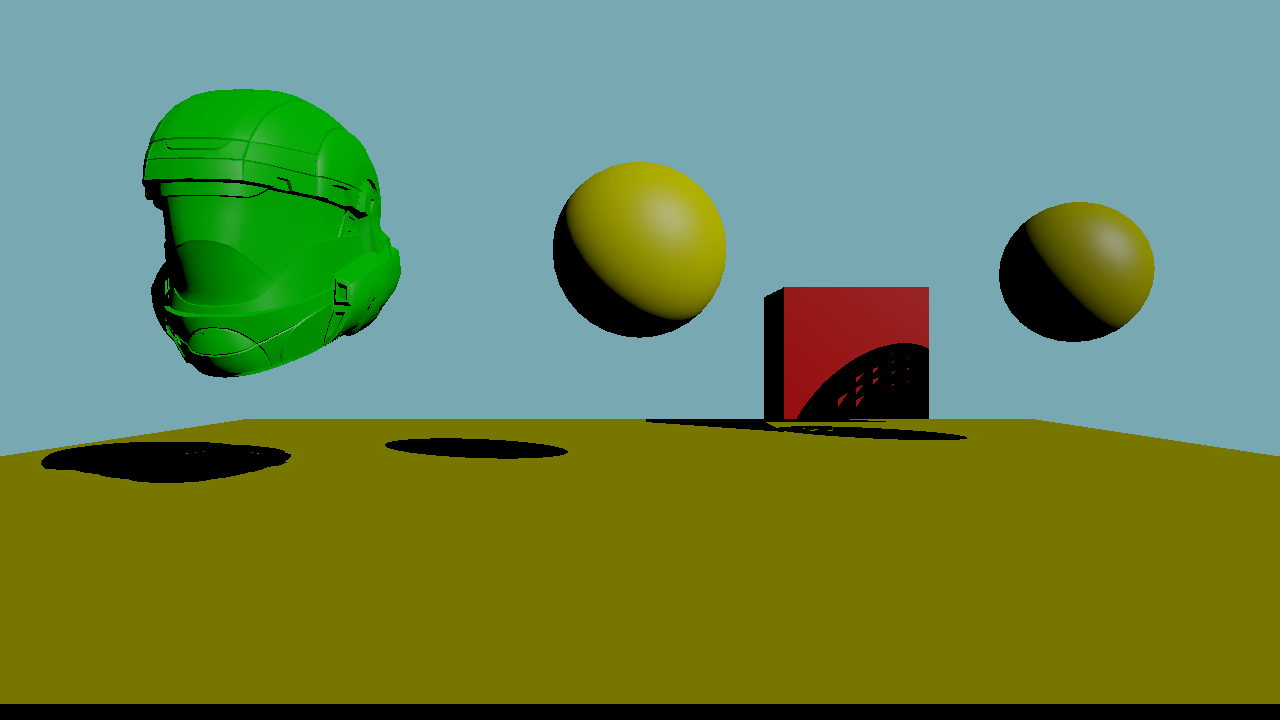
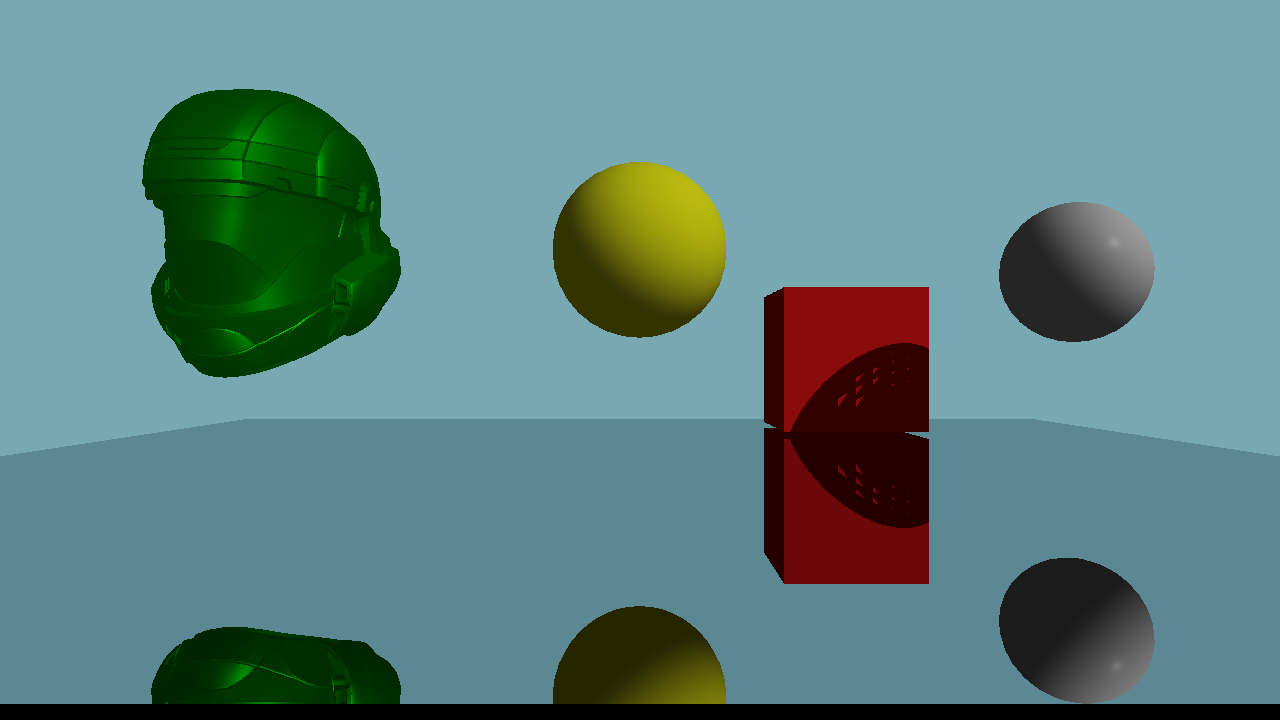
Added Cook-torrance brdf

diff --git a/CPU_RayTracing/AT_CPU_RayTracing/Camera.cpp b/CPU_RayTracing/AT_CPU_RayTracing/Camera.cpp
@@ -62,9 +62,6 @@ void Camera::Render(std::vector<Pixel>& buffer, BVH::Builder& bvh, std::vector<s
 				Pixel pixel;
 
 				// Convert pixel from raster space to camera space
-				//float Px = (2.0f * (tile_x + (aaX + Maths::Random::randomFloat()) / antiAliasingSamples) / m_size.getX() - 1.0f) * m_aspectRatio * m_scale;	// * tan(fov / 2.0f * Maths::special::pi / 180.0f) * aspect_ratio * scale;
-				//float Py = (1.0f - (tile_y + (aaX + Maths::Random::randomFloat()) / antiAliasingSamples) / m_size.getY() * 2.0f) * m_scale;	// * tan(fov / 2.0f * Maths::special::pi / 180.0f));
-
 				float Px = (2.0f * (tile_x + 0.5f) / m_size.getX() - 1.0f) * m_aspectRatio * m_cameraScale;
 				float Py = (1.0f - 2.0f * (tile_y + 0.5f) / m_size.getY()) * m_cameraScale;
 
@@ -111,13 +108,16 @@ Colour Camera::castRay(Raycast::Ray& ray, BVH::Builder& bvh, std::vector<std::un
 
 	if (bvh.hit(ray))
 	{
+		// Rays hit point
 		Vector3 hitpoint = ray.getOrigin() + ray.getDirection() * ray.getHitData().tnear;
 		
-		Colour albedo	= ray.getHitData().material.albedo;
-		float roughness	= ray.getHitData().material.roughness;
-		float metallic	= ray.getHitData().material.metallic;
-		Vector3 normal  = normalize(ray.getHitData().material.normal);
-		Vector3 viewDir = normalize(ray.getDirection());
+		// Material properties from the hit point
+		Colour albedo		= ray.getHitData().material.albedo;
+		float roughness		= ray.getHitData().material.roughness;
+		float metallic		= ray.getHitData().material.metallic;
+		float specIntensity = ray.getHitData().material.specular_intensity;
+		Vector3 normal		= ray.getHitData().material.normal;
+		Vector3 viewDir		= normalize(ray.getDirection());
 
 		// Rendering of multiple materials is based off Whitted Light-Transport Algorithm 
 		switch (ray.getHitData().material.type)
@@ -155,7 +155,6 @@ Colour Camera::castRay(Raycast::Ray& ray, BVH::Builder& bvh, std::vector<std::un
 				reflectionRay.setOrigin(reflectionOrigin);
 				reflectionRay.setDirection(reflectionDir);
 
-
 				Vector3 refractiveDir = normalize(refract(ray.getDirection(), normal, 1.52f));
 				Vector3 refractiveOrigin = (dot(refractiveDir, normal) < 0.0f) ? hitpoint - normal * 0.1f : hitpoint + normal * 0.1f;
 				
@@ -169,7 +168,6 @@ Colour Camera::castRay(Raycast::Ray& ray, BVH::Builder& bvh, std::vector<std::un
 				Colour refractColour = castRay(refractiveRay, bvh, sceneLights, depth + 1);
 				Colour reflectColour = castRay(reflectionRay, bvh, sceneLights, depth + 1);
 				hitColour = reflectColour * kr + refractColour * (1.0f - kr);
-				//hitColour = refractColour * (1.0f - kr);
 			}
 			break;
 
@@ -178,6 +176,11 @@ Colour Camera::castRay(Raycast::Ray& ray, BVH::Builder& bvh, std::vector<std::un
 
 			case Material::Types::Dielectic:
 			{
+				Colour f0 = Colour(0.04f, 0.04f, 0.04f);
+				f0 = lerp(f0, albedo, metallic);
+
+				Colour lo = Colour();
+
 				// Loop through all the lights in the scene and add them linearly 
 				for (auto& light : sceneLights)
 				{
@@ -186,43 +189,43 @@ Colour Camera::castRay(Raycast::Ray& ray, BVH::Builder& bvh, std::vector<std::un
 
 					// Get lighting information
 					light->illuminate(hitpoint, lightDirection, lightColour, ray.getHitData().tnear);
-					
-
-					//Vector3 halfVector = normalize(-V + lightDirection);
+				
+					Vector3 halfVector = normalize(-viewDir + lightDirection);
 
 					float NdotL = saturate(dot(normal, lightDirection));
-					//float NdotH = saturate(dot(N, halfVector));
-					//float NdotV = saturate(dot(N, -V));
-					//float LdotH = saturate(dot(lightDirection, halfVector));
+					float NdotH = saturate(dot(normal, halfVector));
+					float NdotV = saturate(dot(normal, -viewDir));
+					float HdotV = saturate(dot(halfVector, -viewDir));
 
-					//Colour f0 = Colour(0.04f, 0.04f, 0.04f);
-					//f0 = lerp(f0, pow(albedo, 2.2f), metallic);
+					float d = Shaders::BRDF::trowbridge_reitz_ggx(NdotH, roughness);
+					float g = Shaders::BRDF::geometry_smith(NdotV, NdotL, roughness);
+					Colour f = Shaders::BRDF::fresnel_schlick(HdotV, f0, 1.0f);
 
-					//float d = Shaders::BRDF::trowbridge_reitz_ggx(NdotH, roughness);
-					//float g = Shaders::BRDF::geometry_smith(NdotV, NdotL, roughness) * Shaders::BRDF::geometry_smith(NdotV, NdotL, roughness);
-					//Colour f = Shaders::BRDF::fresnel_schlick(NdotL, f0, 1.0f);
+					Colour ks = f;
+					Colour kd = Colour(1.0f, 1.0f, 1.0f) - ks;
+					kd *= 1.0f - metallic;
 
-					//Colour ks = f;
-					//Colour kd = 1.0f - ks;
-					//kd *= Colour(1.0f, 1.0f, 1.0f) - metallic;
-
-					//Colour specular = Shaders::BRDF::cookTorranceBRDF(f, d, g, NdotV, NdotL) * light->m_intensity * 0.5f;
-					//Colour outgoing_radiance = albedo + specular.getRed() * NdotL;
-
+					Colour specular = Shaders::BRDF::cookTorranceBRDF(f, d, g, NdotV, NdotL) * specIntensity;
 
 					// Shoot shadow rays into scene
 					Raycast::Ray shadowRay;
 					shadowRay.setOrigin(hitpoint + normal * 0.1f);
 					shadowRay.setDirection(lightDirection);
 					shadowRay.m_tNear = ray.getHitData().tnear;
-
 					bool shadow = !bvh.hit(shadowRay);
 
-					Colour diffuse = Shaders::Functions::lambertCosineLaw(NdotL, lightColour, albedo) * shadow;
-					Vector3 R = reflect(lightDirection, normal);
-					float specular = light->m_intensity * power(max(0.0f, dot(R, viewDir)), 10.0f) * shadow;
-					hitColour = diffuse * 0.8f + specular * 0.2f;
+					Colour diffuse = Shaders::Functions::lambertCosineLaw(NdotL, lightColour, albedo);
+
+					lo += ((kd * diffuse + specular) * NdotL) * shadow;
+
+					//Colour diffuse = Shaders::Functions::lambertCosineLaw(NdotL, lightColour, albedo) * shadow;
+					//Vector3 R = reflect(lightDirection, normal);
+					//float specular = light->m_intensity * power(max(0.0f, dot(R, viewDir)), 10.0f) * shadow;
+					//hitColour = diffuse * 0.8f + specular * 0.2f;
 				}
+				Colour ambient = Colour(0.03f, 0.03f, 0.03f) * albedo;
+				hitColour = ambient + lo;
+
 				return hitColour;
 			}
 			break;
@@ -230,6 +233,7 @@ Colour Camera::castRay(Raycast::Ray& ray, BVH::Builder& bvh, std::vector<std::un
 	}
 	else
 	{
+		// Background colour
 		hitColour = Colour(0.235294f, 0.67451f, 0.843137f);
 	}
 	return hitColour;

diff --git a/CPU_RayTracing/AT_CPU_RayTracing/Main.cpp b/CPU_RayTracing/AT_CPU_RayTracing/Main.cpp
@@ -78,7 +78,7 @@ int main()
 	// Create the scenes lights
 	std::vector<std::unique_ptr<Light::Light>> sceneLights;
 	//sceneLights.push_back(std::unique_ptr<Light::DirectionLight>(new Light::DirectionLight(1.0f, Colour(1.0f, 1.0f, 1.0f), Vector3(0.0f, 0.5f, 1.0f))));
-	sceneLights.push_back(std::unique_ptr<Light::DirectionLight>(new Light::DirectionLight(1.0f, Colour(1.0f, 1.0f, 0.0f), Vector3(1.0f, 1.0f, 1.0f))));
+	sceneLights.push_back(std::unique_ptr<Light::DirectionLight>(new Light::DirectionLight(1.0f, Colour(1.0f, 1.0f, 1.0f), Vector3(1.0f, 1.0f, 1.0f))));
 	//sceneLights.push_back(std::unique_ptr<Light::DirectionLight>(new Light::DirectionLight(1.0f, Colour(0.0f, 0.0f, 1.0f), Vector3(1.0f, 0.5f, 0.0f))));
 	//sceneLights.push_back(std::unique_ptr<Light::PointLight>(new Light::PointLight(1.0f, Colour(1.0f, 1.0f, 1.0f), Vector3(0.0f, 2.0f, -8.0f))));
 
@@ -94,15 +94,16 @@ int main()
 	cube.setMaterial(cube_material);
 	cube.setAlbedoTexture("Assets\\uv.png");
 
-	Primitive sphere("Assets\\helmet.obj", { 0.0f, 0.0f, 0.0f });
-	sphere.setPosition({-3.0f, 1.0f, -9.0f });
+	Primitive helmet("Assets\\helmet.obj", { 0.0f, 0.0f, 0.0f });
+	helmet.setPosition({-3.0f, 1.0f, -9.0f });
 
-	Material::Data sphere_material;
-	sphere_material.type		= Material::Types::Dielectic;
-	sphere_material.albedo		= Colour(0.0f, 1.0f, 0.0f);
-	sphere_material.roughness	= 0.0f;
-	sphere_material.metallic	= 1.0f;
-	sphere.setMaterial(sphere_material);
+	Material::Data helmet_material;
+	helmet_material.type				= Material::Types::Dielectic;
+	helmet_material.albedo				= Colour(0.0f, 1.0f, 0.0f);
+	helmet_material.roughness			= 0.5f;
+	helmet_material.metallic			= 1.0f;
+	helmet_material.specular_intensity	= 1.0f;
+	helmet.setMaterial(helmet_material);
 
 	Primitive triangle("Assets\\unit_sphere.obj", { 0.0f, 0.0f, 0.0f });
 	triangle.setPosition({ 5.0f, 1.0f, -12.0f });
@@ -110,8 +111,8 @@ int main()
 	Material::Data triangle_material;
 	triangle_material.type = Material::Types::Dielectic;  // Reflective
 	triangle_material.albedo = Colour(0.5f, 0.5f, 0.5f);
-	triangle_material.roughness = 0.0f;
-	triangle_material.metallic = 0.5f;
+	triangle_material.roughness = 0.3f;
+	triangle_material.metallic = 0.0f;
 	triangle.setMaterial(triangle_material);
 
 	Primitive cone("Assets\\unit_sphere.obj", { 0.0f, 0.0f, 0.0f });
@@ -129,9 +130,9 @@ int main()
 	plane.setPosition({ 0.0f, -1.0f, -10.0f });
 
 	Material::Data plane_material;
-	plane_material.type = Material::Types::Dielectic; // Reflective
+	plane_material.type = Material::Types::Reflective; // Reflective
 	plane_material.albedo = Colour(0.5f, 0.5f, 0.5f);
-	plane_material.roughness = 1.0f;
+	plane_material.roughness = 0.3f;
 	plane_material.metallic = 0.0f;
 	plane.setMaterial(plane_material);
 	plane.setAlbedoTexture("Assets\\uv.png");
@@ -140,9 +141,9 @@ int main()
 	std::vector<Primitive> primitives{};
 	primitives.push_back(triangle);
 	primitives.push_back(cone);
-	primitives.push_back(plane);
 	primitives.push_back(cube);
-	primitives.push_back(sphere);
+	primitives.push_back(helmet);
+	primitives.push_back(plane);
 
 
 	// Build a bvh for all the primitives

diff --git a/CPU_RayTracing/AT_CPU_RayTracing/ShaderMaths.h b/CPU_RayTracing/AT_CPU_RayTracing/ShaderMaths.h
@@ -15,6 +15,9 @@ namespace Shaders
 	// https://developer.download.nvidia.com/cg/index_stdlib.html
 	namespace Math
 	{
+		const float pi = Maths::special::pi;
+
+
 		// Returns the absolute value from input
 		inline float abs(float x) { return std::abs(x); }
 		inline Vector2 abs(Vector2 x) { return Vector2(std::abs(x.getX()), std::abs(x.getY())); }
